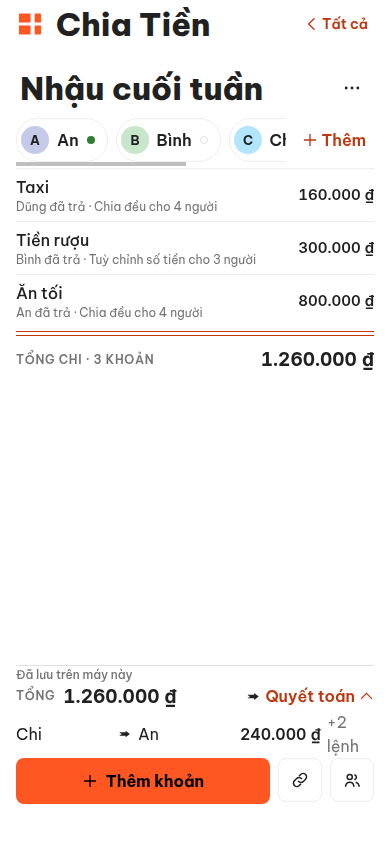
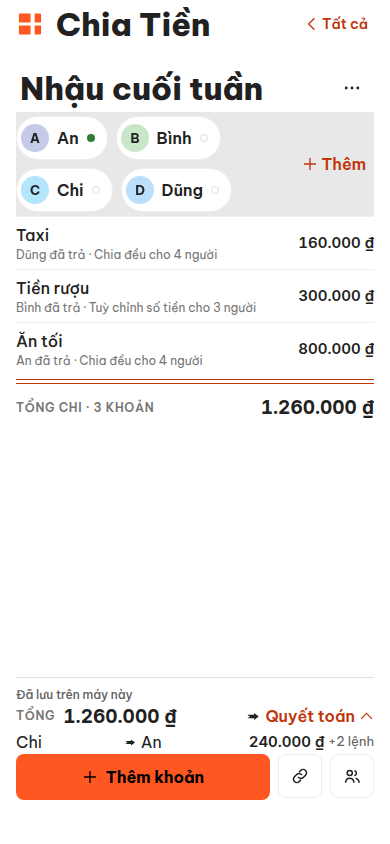
docs: screenshot pack re-shot on live v1.9.0/v1.9.1 (gallery-03 after TC6 portal fix, checkers PASS)

diff --git a/docs/screenshots/SHOT-LIST.md b/docs/screenshots/SHOT-LIST.md
@@ -1,15 +1,22 @@
 # SHOT-LIST — screenshot pack chiatien (studio-catalog/chiatien/)
 
-> **Trạng thái (2026-10-24): ĐÃ CHỤP LẠI trên bản live v1.7.2 (REDESIGN-V4,
-> Neutral-First, seed Material Deep Orange 500 #FF5722, canvas trắng
-> trung tính; v1.7.1 đổi chữ hiển thị về Be Vietnam Pro + hero hình
-> người, v1.7.2 sửa nhãn nút back quấn 2 dòng — M-HDR-1 đã đóng).**
-> Pack trước chụp ở v1.7.0. Xem SHOT-V172-STATE.md ở repo root để
-> biết sha256 mới + kết quả R2.
-> Lưu ý V4: pack v1.7.0 từng ghi lại hiện tượng wordmark header quấn
-> 2 dòng, dòng đầu cắt ở mép trên (phát hiện M-HDR-1). Pack v1.7.2 này
-> chụp sau khi M-HDR-1 đã đóng: wordmark 1 dòng không cắt, hero là
-> hình người ăn chung (hết hình mạch điện của v1.7.0).
+> **Trạng thái (2026-10-25): ĐÃ CHỤP LẠI trên bản live v1.9.0 «Giấy thật»
+> (REDESIGN-V4 + đợt redesign 2026-10-24/25: panel quyết toán thành
+> sheet trắng có biên trên nền bàn xám, phiếu gấp có dấu xé một ấn
+> bản, nắp phiếu mở họ giấy trắng; panel R11 PASS 5/5 + §6 5/5).
+> Riêng gallery-03 đã chụp lại trên live v1.9.1 sau khi khiếm
+> khuyết TC6 được vá; Checker A-DELTA2 PASS 4/4.**
+> Pack trước chụp ở v1.7.2 (bản này bắt kịp cả phần còn nợ của v1.8.0
+> «MỞ PHIẾU»). Xem SHOT-V190-STATE.md ở repo root để biết sha256 mới
+> + kết quả R2.
+> Lưu ý lịch sử khi đối chiếu: bản gallery-03 đầu tiên chụp trên
+> v1.9.0 từng bị dải chip thành viên (z-30) vẽ đè lên góc trên-trái
+> của hộp thoại VietQR và che một phần tiêu đề «VietQR — An».
+> Parent đã vá ở v1.9.1 bằng cách render Sheet qua portal ra
+> `document.body`; bản gallery-03 hiện tại không còn hiện tượng
+> này — tiêu đề đọc trọn và dải thành viên bị scrim làm mờ như
+> nền. Chi tiết + số đo ở mục Delta v1.9.1 trong
+> SHOT-V190-STATE.md và biên bản SHOT-V190-VERIFY-A-DELTA2.md.
 > File này ghi lại hợp đồng chụp (tên file giữ nguyên như pack cũ để catalog
 > không gãy) và các TRẠNG THÁI nội dung phải đúng sự thật khi chụp — đặc
 > biệt: pack v1 (HEAD 044b960) từng bị grader bắt lỗi DOC-03/DATA-03 vì

diff --git a/README.md b/README.md
@@ -17,7 +17,7 @@ Repository: https://github.com/changvn2002/chiatien
 <p align="center">
   <img src="docs/screenshots/chiatien-desktop.png" alt="Chia Tiền — cuộc chia “Nhậu cuối tuần” đã quyết toán xong: sổ trực tiếp hiện số dư từng người, cột quyết toán bên phải chốt đúng 3 lần chuyển cần thiết" width="900">
 </p>
-<p align="center"><em>Một cuộc chia đã chốt xong trên không gian làm việc: 4 người, 3 khoản chi, tổng 1.260.000 ₫ — sổ trực tiếp hiện số dư từng người, cột quyết toán bên phải rút gọn thành đúng 3 lần chuyển (Chi → An 240.000 ₫, Dũng → An 180.000 ₫, Bình → An 40.000 ₫). Các lần chuyển tới An có VietQR vì tài khoản của An đã lưu trên chính máy này. Ảnh chụp thật từ bản production v1.7.2 đang chạy.</em></p>
+<p align="center"><em>Một cuộc chia đã chốt xong trên không gian làm việc: 4 người, 3 khoản chi, tổng 1.260.000 ₫ — sổ trực tiếp hiện số dư từng người, cột quyết toán bên phải rút gọn thành đúng 3 lần chuyển (Chi → An 240.000 ₫, Dũng → An 180.000 ₫, Bình → An 40.000 ₫). Các lần chuyển tới An có VietQR vì tài khoản của An đã lưu trên chính máy này. Ảnh chụp thật từ bản production v1.9.0 đang chạy.</em></p>
 
 **Tóm tắt:** Đi chơi chung, ăn nhậu, ở trọ chung… rồi đến màn "để tính sau" là hay
 cãi nhau. **Chia Tiền** ghi lại ai đã trả khoản nào, tự chia cho nhóm, triệt tiêu nợ

diff --git a/docs/reviews/v1.9.1-review-record.md b/docs/reviews/v1.9.1-review-record.md
@@ -67,9 +67,13 @@ exit animation 125ms, mọi hành vi sheet khác.
 
 ## Theo dõi sau phát hành
 
-- Pack live: gallery-03 sẽ chụp lại trên v1.9.1 (chỉ file
-  này — 5 ảnh còn lại của pack v1.9.0 giữ nguyên) rồi mới
-  commit pack, kèm đính chính hash trong SHOT-V190-STATE.
+- Pack live: gallery-03 ĐÃ chụp lại trên v1.9.1 (sha256
+  536b1ae6… thay bản TC6 e223579d…): tiêu đề «VietQR — An»
+  đọc trọn, dải thành viên bị scrim làm mờ đồng đều, đo DOM
+  xác nhận overlay là con trực tiếp của BODY (portal), hit-
+  test 15/15 điểm trên tiêu đề trúng panel; Checker A-DELTA2
+  PASS 4/4. 5 ảnh còn lại của pack v1.9.0 giữ nguyên; pack
+  commit cùng đợt đóng hồ sơ này.
 - Commit 594cc8f (6 files), tag **v1.9.1**. **CI run
   40128715028: SUCCESS.** Live đã kiểm: sw.js phục vụ
   `CACHE_VERSION = 'v7-2026-10-25'` (2026-10-25).
